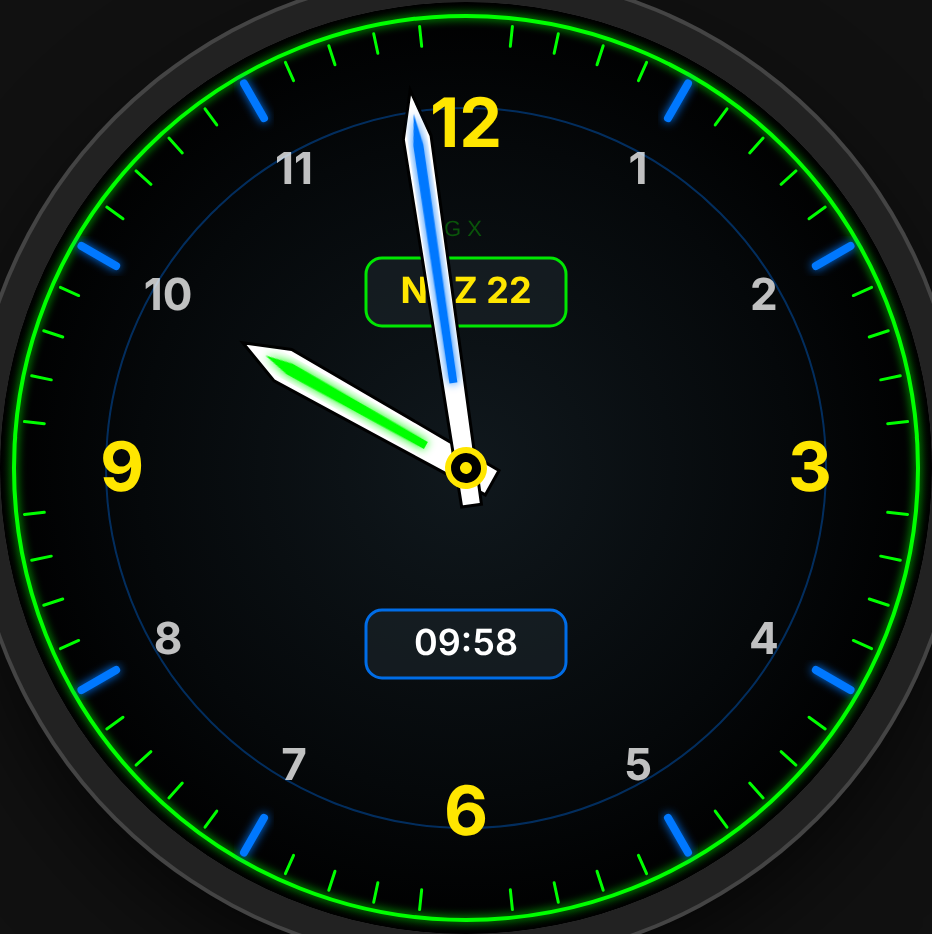
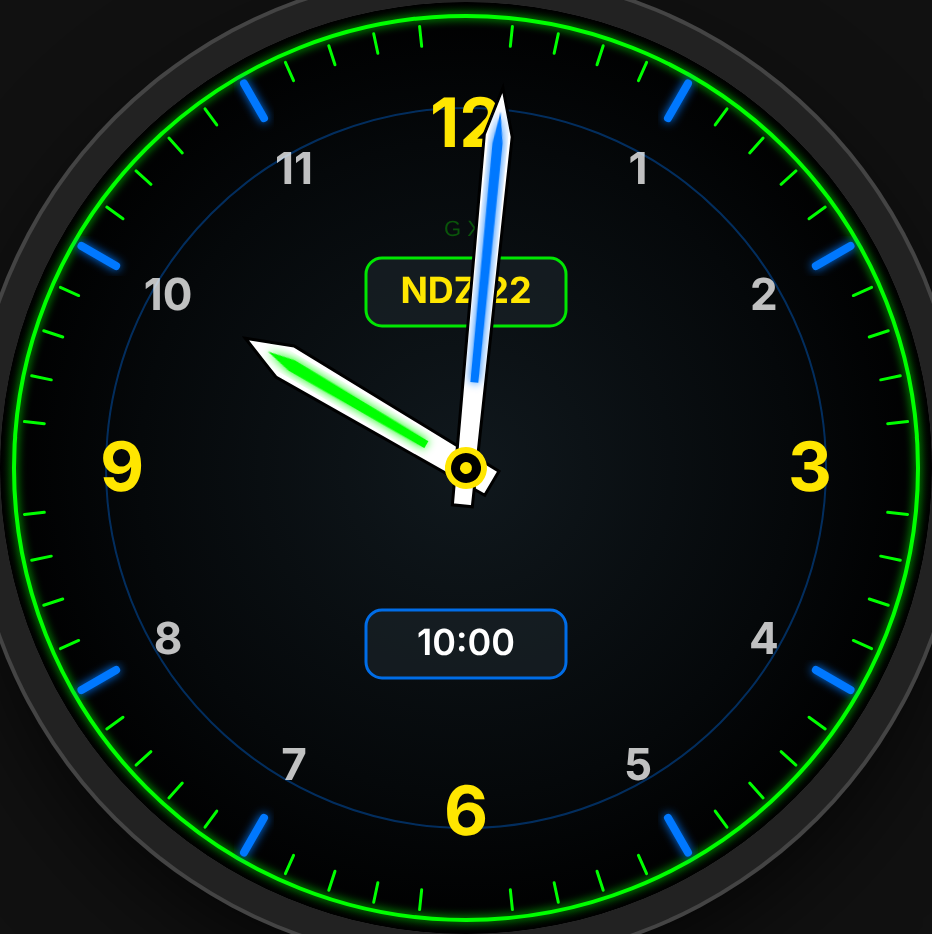
Add GT 4 gallery-ready watch face background
Claude-Session: https://claude.ai/code/session_01RUTqk41kd1F1ScbjEcjXM5

Changed region(s): [[0.28, 0.0931, 0.5601, 0.5589], [0.4356, 0.652, 0.5601, 0.7141]]

diff --git a/huawei-watchface/watchface.html b/huawei-watchface/watchface.html
@@ -38,7 +38,7 @@
     <g id="ticks"></g>
     <g id="numerals" font-family="'Segoe UI',Roboto,Arial,sans-serif" font-weight="700" text-anchor="middle" dominant-baseline="central"></g>
     <!-- tarcze pomocnicze -->
-    <g opacity=".9">
+    <g id="boxes" opacity=".9">
       <rect x="183" y="128" width="100" height="34" rx="8" fill="rgba(27,35,41,.7)" stroke="#00ff00" stroke-width="1.5"/>
       <rect x="183" y="304" width="100" height="34" rx="8" fill="rgba(27,35,41,.7)" stroke="#0078ff" stroke-width="1.5"/>
       <text x="233" y="117" fill="#0a5c0a" font-size="11" text-anchor="middle" font-family="Arial" letter-spacing="3">GX</text>
@@ -100,7 +100,14 @@
 
   // Tryb eksportu: ?layer=bg|hour|minute|second – pokazuje tylko jedną warstwę na przezroczystym tle
   const layer = new URLSearchParams(location.search).get("layer");
-  if (layer) {
+  if (layer === "gallery") {
+    document.body.style.background = "#000";
+    // Wersja do tarczy "Galeria" w Huawei Health: samo tło, środek wolny na godzinę zegarka
+    document.body.className = "export";
+    document.querySelector(".hint").remove();
+    for (const id of ["boxes", "layer-data", "layer-hour", "layer-minute", "layer-second"])
+      document.getElementById(id).style.display = "none";
+  } else if (layer) {
     document.body.className = "export";
     document.querySelector(".hint").remove();
     for (const id of ["bg", "data", "hour", "minute", "second"])

diff --git a/huawei-watchface/export.js b/huawei-watchface/export.js
@@ -9,6 +9,8 @@ const path = require('path');
     await p.goto(url + '?layer=' + layer);
     await p.locator('.watch').screenshot({ path: path.join(__dirname, 'png', layer + '.png'), omitBackground: layer !== 'bg' });
   }
+  await p.goto(url + '?layer=gallery');
+  await p.locator('.watch').screenshot({ path: path.join(__dirname, 'png', 'gt4-galeria.png') });
   const pv = await b.newPage({ viewport: { width: 560, height: 600 }, deviceScaleFactor: 2 });
   await pv.goto(url); await pv.waitForTimeout(300);
   await pv.locator('.watch').screenshot({ path: path.join(__dirname, 'png', 'preview.png') });

diff --git a/huawei-watchface/README.md b/huawei-watchface/README.md
@@ -18,3 +18,11 @@ Rozdzielczość **466 × 466 px** – Huawei Watch GT 2 / GT 3 / GT 4 (46 mm), W
 3. Dodaj wskazówki godzinową, minutową i sekundową z plików PNG. **Środek obrotu: x = 233, y = 233** (obrazy mają pełny rozmiar 466×466).
 4. W ramkach dodaj widżety: data (górna, zielona ramka) i godzina cyfrowa / kroki / bateria (dolna, niebieska ramka).
 5. Zbuduj plik `.hwt` i zainstaluj na zegarku przez Theme Studio (tryb dewelopera) lub opublikuj w sklepie Huawei.
+
+## Najszybciej: gotowa tarcza na Huawei Watch GT 4 (bez Theme Studio)
+Plik `png/gt4-galeria.png` to tło tarczy z wolnym środkiem na godzinę.
+1. Skopiuj `gt4-galeria.png` na telefon.
+2. Huawei Health → Twój zegarek → **Tarcze zegarka** → **Więcej** → **Galeria** (tarcza „Galeria”/„Zdjęcie”).
+3. Dodaj zdjęcie (**+**) → wybierz `gt4-galeria.png`.
+4. **Styl** – wybierz czcionkę i kolor godziny (np. biały lub żółty), **Pozycja** – środek.
+5. **Zapisz** – tarcza pojawi się na zegarku.
